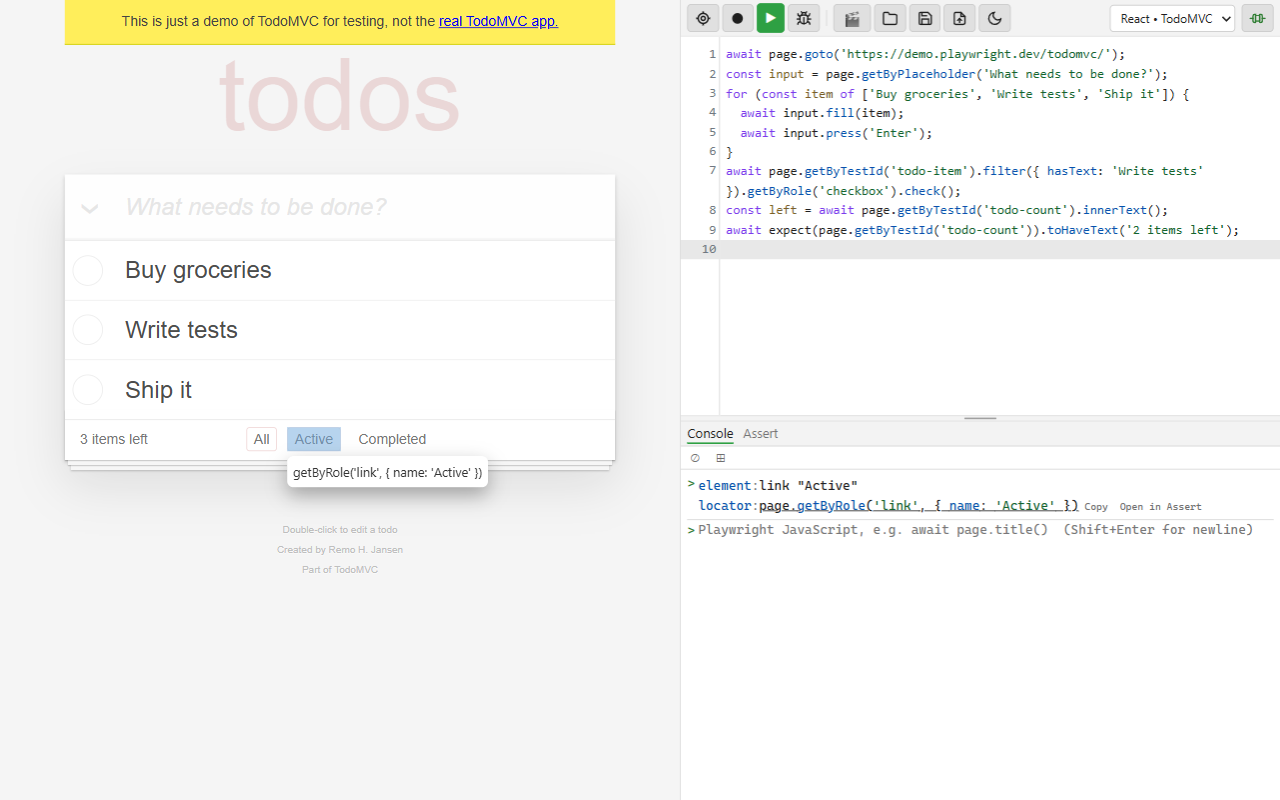
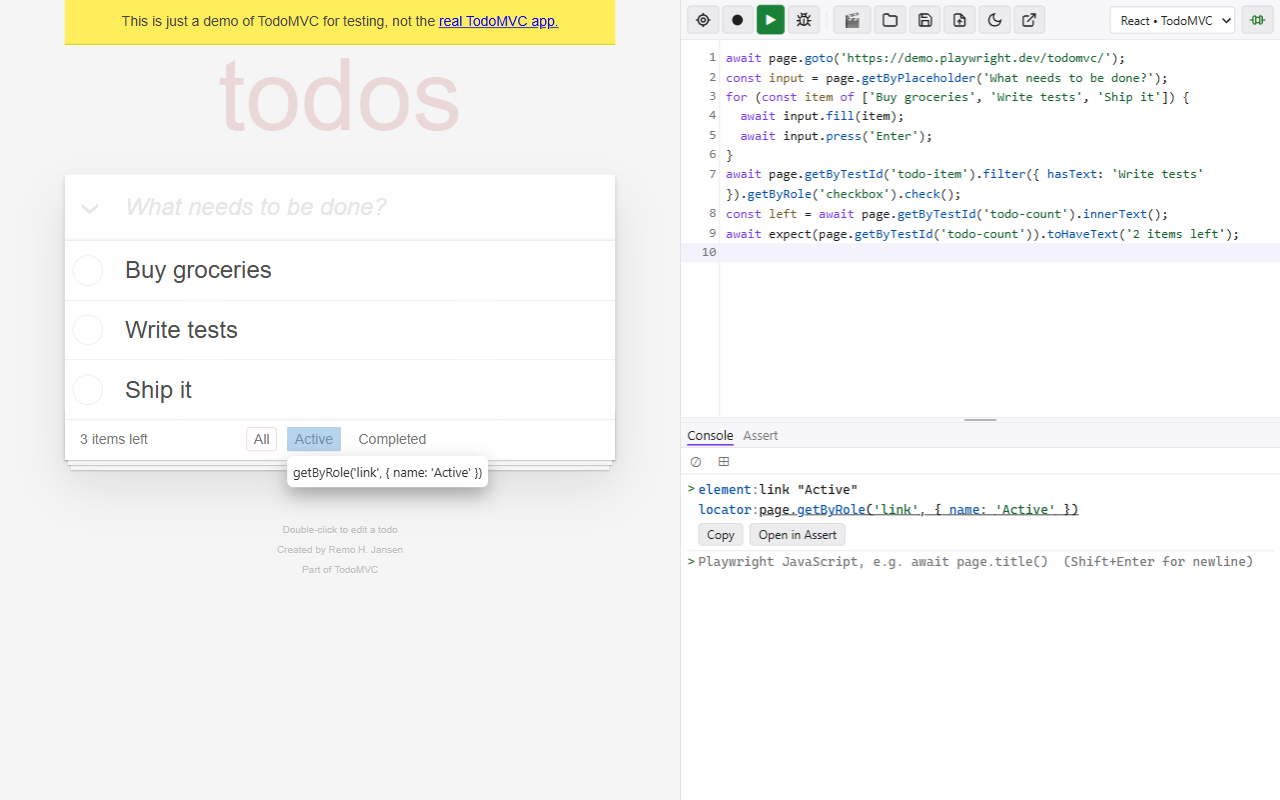
chore: release 1.0.0 — Playwright 1.65, new store screenshots
- Version 1.0.0 (package.json, manifest).
- @playwright-repl/playwright-crx ^1.23.0 (Playwright 1.65.0); @playwright/test ^1.65.0.
- Regenerated the store screenshots with the new theme and panel layout.
- Store description: pop-out window, session restore and system theme
  under a new WORKSPACE section. README status for 1.0.0.

diff --git a/README.md b/README.md
@@ -6,9 +6,9 @@ Record a session as Playwright JavaScript, pick locators, build assertions, run 
 
 ## Status
 
-Early scaffold. It was split off from [Dramaturg](https://github.com/stevez/playwright-repl/tree/main/packages/extension) as a plain copy and narrowed to JavaScript only, without the `.pw` keyword commands, CLI/MCP bridge, CDP relay or DevTools console.
+Version 1.0.0, being submitted to the Chrome Web Store. It was split off from [Dramaturg](https://github.com/stevez/playwright-repl/tree/main/packages/extension) as a plain copy and narrowed to JavaScript only, without the `.pw` keyword commands, CLI/MCP bridge, CDP relay or DevTools console.
 
-Working: attach to a tab, record → Playwright JS, run the script, step debugger with breakpoints, element picker, console, tracing, video capture (Playwright screencast of the attached tab, with clicks and actions highlighted; no extra permission), the **Assert** tab, and **Export spec**. The Assert tab is ported from the playwright-repl VS Code extension: pick an element, choose one of 13 matchers (or an ARIA snapshot), verify it on the live page, and copy it. Export spec wraps the script in a Playwright Test file (`.spec.ts` / `.spec.js`), with the test name taken from the page title.
+Working: attach to a tab, record → Playwright JS, run the script, step debugger with breakpoints, element picker, console, tracing, video capture (Playwright screencast of the attached tab, with clicks and actions highlighted; no extra permission), the **Assert** tab, and **Export spec**. The Assert tab is ported from the playwright-repl VS Code extension: pick an element, choose one of 13 matchers (or an ARIA snapshot), verify it on the live page, and copy it. Export spec wraps the script in a Playwright Test file (`.spec.ts` / `.spec.js`), with the test name taken from the page title. The panel can pop out into its own window and dock back, and its light and dark themes follow the system setting.
 
 ## Develop
 
@@ -38,7 +38,7 @@ Load `dist/` as an unpacked extension (`chrome://extensions` → Developer mode 
 
 ## Roadmap (v1)
 
-- Web Store listing (text and privacy answers in [`docs/webstore-listing.md`](docs/webstore-listing.md))
+- Publish to the Chrome Web Store (listing text and privacy answers in [`docs/webstore-listing.md`](docs/webstore-listing.md))
 
 ## Privacy
 

diff --git a/docs/webstore-listing.md b/docs/webstore-listing.md
@@ -17,7 +17,7 @@ Text to paste into the Developer Dashboard. The title and summary come from `pub
 ```
 Record once — get the Playwright test and the video.
 
-Sidekick for Playwright records what you do in a tab as Playwright JavaScript, helps you pick locators and build assertions, runs and debugs the script, and captures a video of the session. Everything runs in a side panel: no Node.js, no project setup, no server.
+Sidekick for Playwright records what you do in a tab as Playwright JavaScript, helps you pick locators and build assertions, runs and debugs the script, and captures a video of the session. Everything runs in a side panel, or in its own window: no Node.js, no project setup, no server.
 
 RECORD
 • Clicks, typing, selects, checks and navigations become Playwright code as you go
@@ -46,7 +46,11 @@ VIDEO AND TRACE
 EXPORT
 • Export the script as a Playwright Test file (.spec.ts or .spec.js), ready to drop into your project and run with npx playwright test
 • Open and save plain .js scripts
-• Light and dark themes
+
+WORKSPACE
+• Pop Sidekick out into its own window for more room, and dock it back to the side panel
+• Your script, breakpoints and history are kept when you close and reopen the panel
+• Light and dark themes that follow your system
 
 Built for Playwright engineers and QA who want to go from "I clicked through it" to a working test fast.
 
